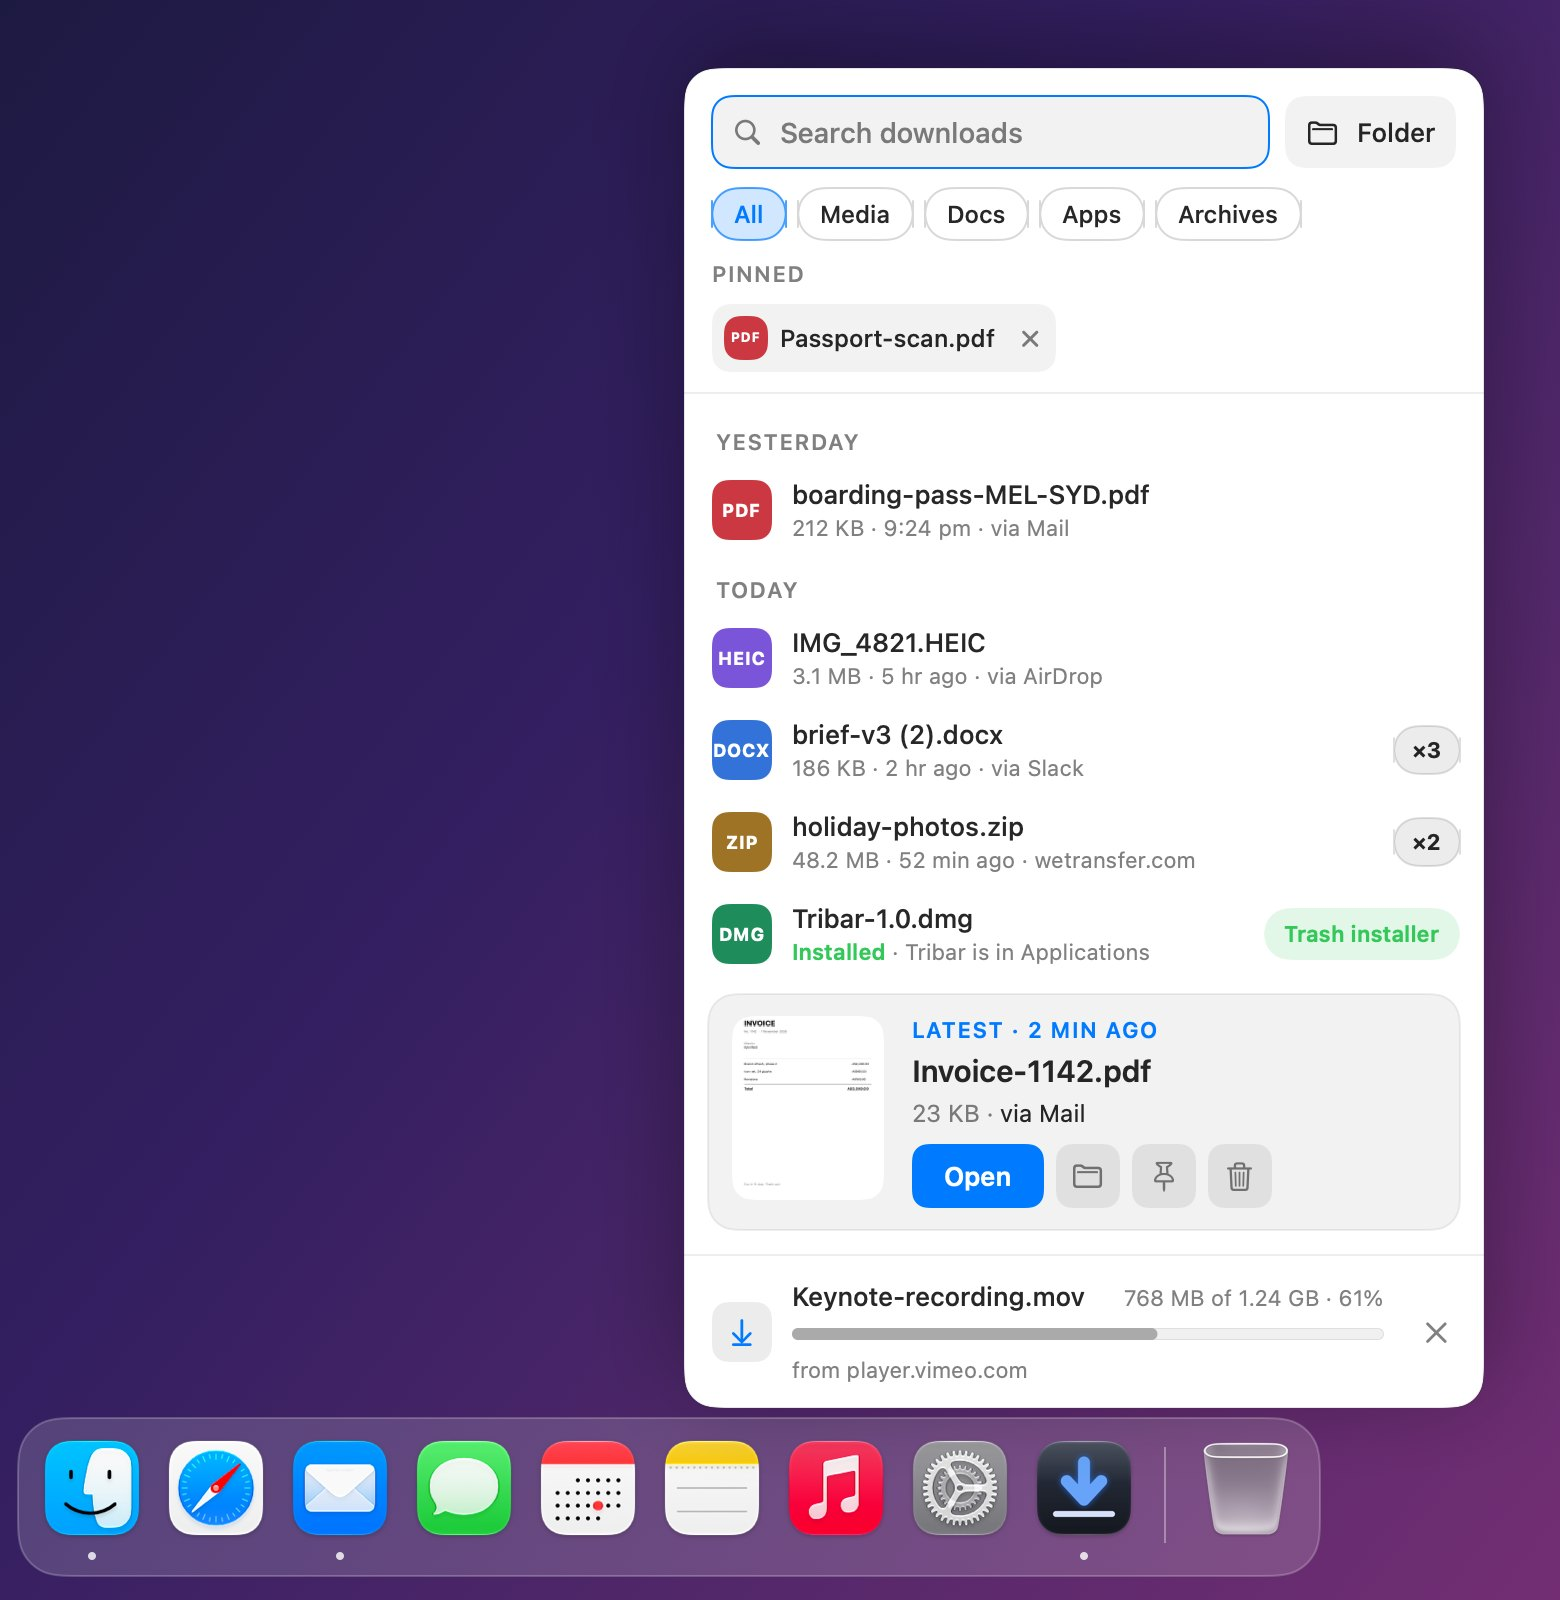
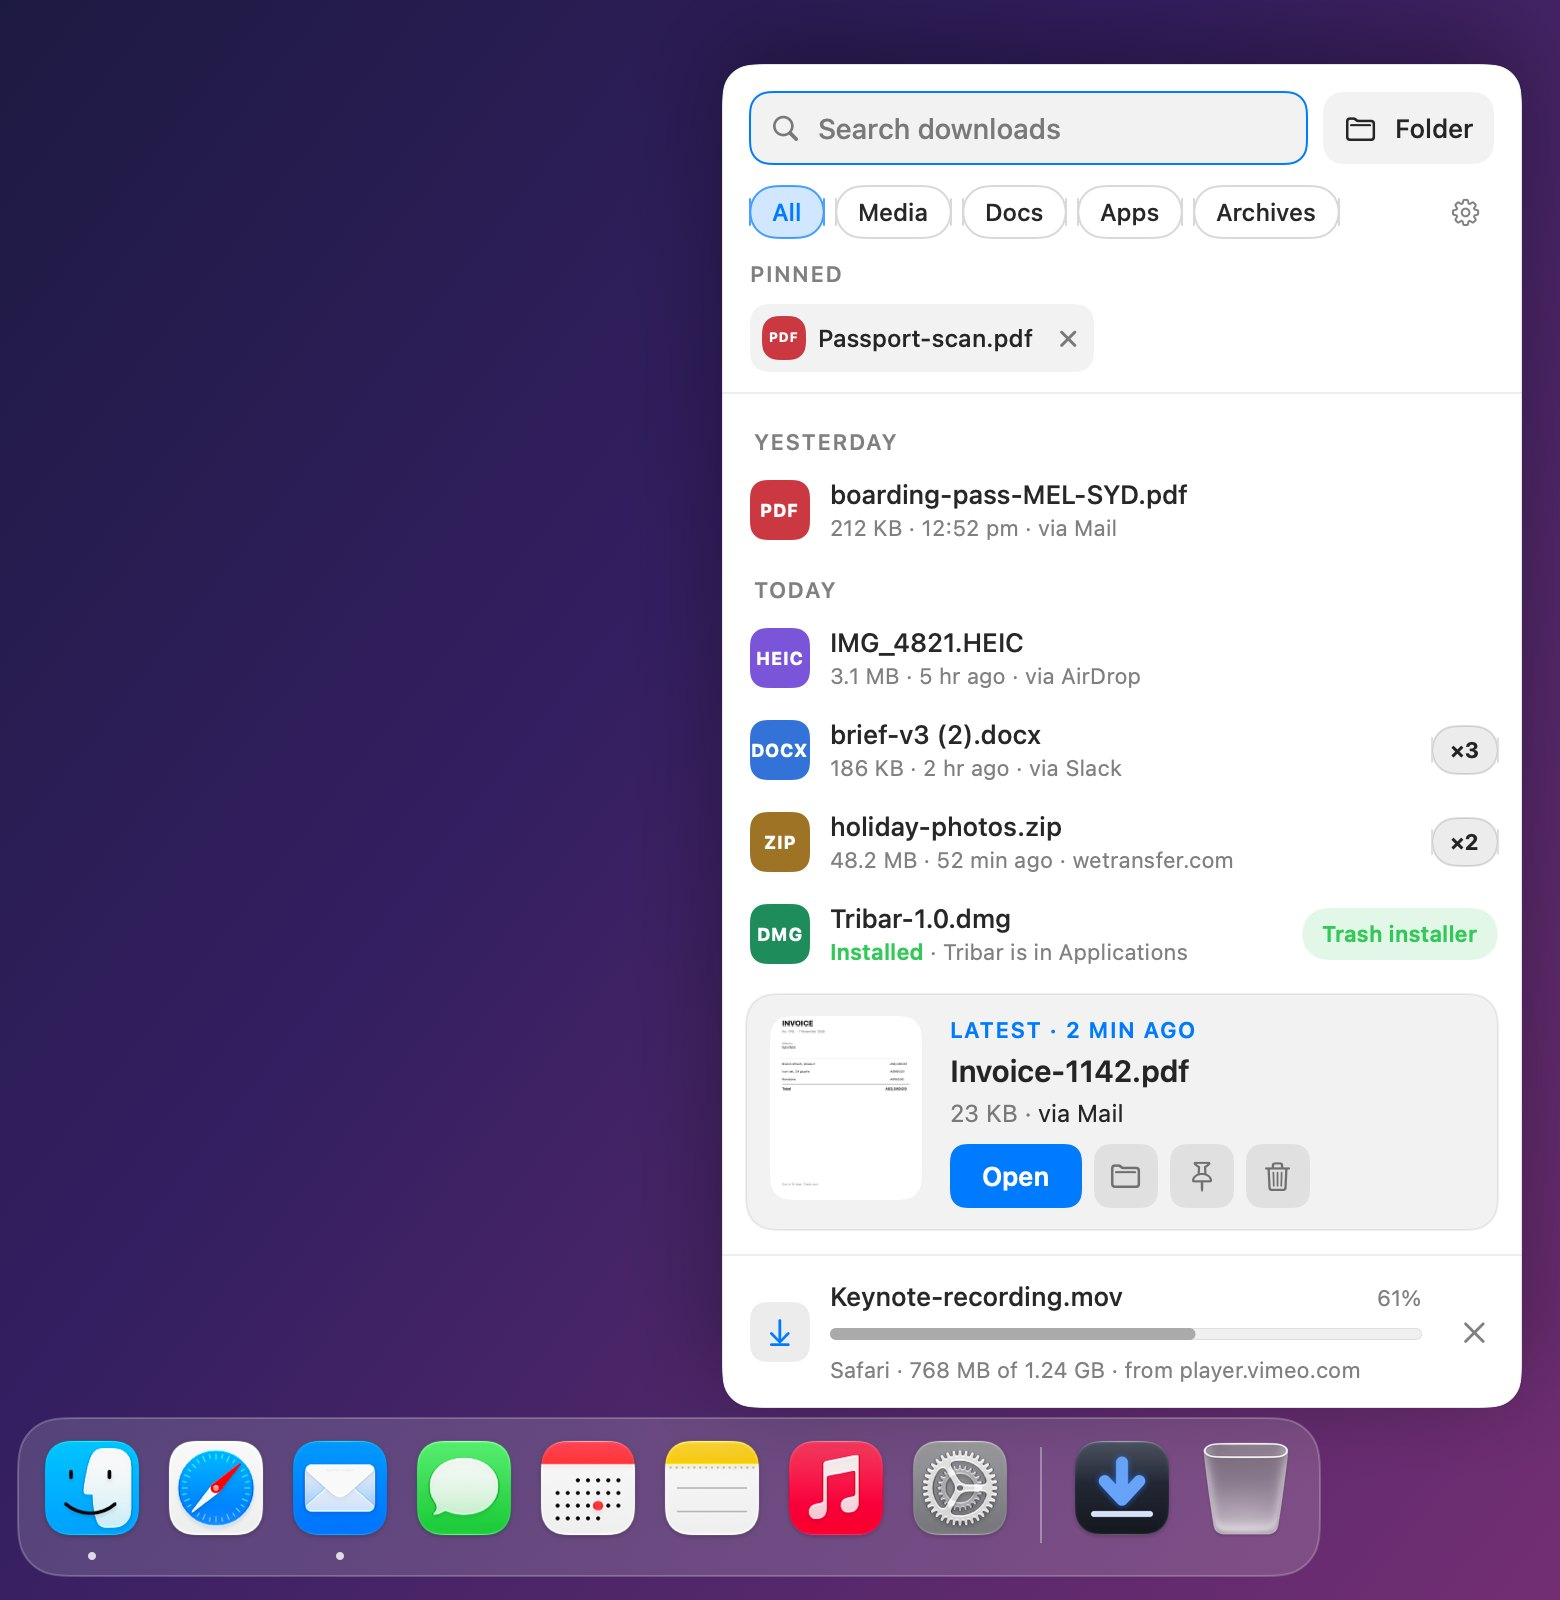
Landed: new screenshots (tile beside the Bin, current shelf), placement section, cancel and progress copy, support and privacy updates
Claude-Session: https://claude.ai/code/session_01KSvC3ngdjmg4y7t45nwftj

Changed region(s): [[0.4308, 0.0312, 0.9846, 0.9688], [0.7385, 0.8125, 0.8615, 0.875], [0.6154, 0.7812, 0.6769, 0.8125]]

diff --git a/landed/index.html b/landed/index.html
@@ -36,7 +36,7 @@
         <span class="button" aria-disabled="true"><span class="lamp on"></span> Coming to the Mac App Store</span>
         <p class="note">Free download. Pro unlock is a one-time purchase.</p>
       </div>
-      <img class="shot hero-shot" src="img/hero-dock.jpg" width="1560" height="1600" alt="The end of a Mac Dock with Landed's icon just before the Trash, and the Landed shelf open above it: a pinned file, yesterday's and today's downloads with where each came from, an invoice as the latest file, and a download in progress at 61%.">
+      <img class="shot hero-shot" src="img/hero-dock.jpg" width="1560" height="1600" alt="The end of a Mac Dock with Landed right of the divider, beside the Bin, where the Downloads stack used to be. The Landed shelf is open above it: a pinned file, yesterday's and today's downloads with where each came from, an invoice as the latest file, and a Safari download in progress at 61%.">
     </section>
 
     <dl class="specs">
@@ -74,10 +74,10 @@
 
     <section class="block" id="features">
       <h2>Everything the stack should have been.</h2>
-      <p class="sub">Click Landed in the Dock, or press your shortcut, and the shelf rises from where you clicked.</p>
+      <p class="sub">Click Landed beside the Bin, or press your shortcut, and the shelf opens right there.</p>
       <div class="features">
         <div><h3>Newest at your cursor</h3><p>The latest file gets a big card with a preview. Older ones step up from there, grouped by Today and Yesterday, so nothing needs scrolling for the file you just got.</p></div>
-        <div><h3>Downloads in progress</h3><p>Safari downloads show a live bar with size and percentage, and every browser’s partial file shows how much has arrived.</p></div>
+        <div><h3>Downloads in progress</h3><p>Live progress from Safari, Chrome, Edge and Firefox, showing what’s coming and where from. Changed your mind? Cancel it right from the shelf.</p></div>
         <div><h3>Type to find it</h3><p>Search is ready the moment the shelf opens. Filter by Media, Docs, Apps or Archives.</p></div>
         <div><h3>Keyboard first</h3><p>↑ and ↓ to move, Space for Quick Look, Return to open, ⌘⌫ to trash and ⌘Z to undo.</p></div>
         <div><h3>Pins</h3><p>Keep the files you always reach for in a strip at the top, out of the way of what’s new.</p></div>
@@ -86,10 +86,19 @@
     </section>
 
     <section class="block">
-      <h2>Prefer the menu bar? So does Landed.</h2>
-      <p class="sub">Show Landed in the Dock, the menu bar or both. Here it is in the menu bar beside <a href="../tribar/">Tribar</a>, our app that puts battery, Wi-Fi and volume in one icon.</p>
+      <h2>Right where Downloads used to be.</h2>
+      <p class="sub">Landed sits beside the Bin, in the spot the Downloads stack had. The first time you open it, it shows you the one drag that puts it there. Or keep it with your apps, in the menu bar, or any mix.</p>
       <figure class="wide">
-        <img class="shot" src="img/menubar.jpg" width="1100" height="1560" loading="lazy" alt="The right end of a Mac menu bar with only two app icons beside Spotlight and Control Center: Landed, highlighted, and Tribar’s Duo face. The Landed shelf hangs below its icon.">
+        <img class="shot" src="img/placement.jpg" width="1140" height="492" loading="lazy" alt="Landed's Settings, Show Landed in: three checkboxes, The Dock with your apps, The Dock next to the Bin, and The menu bar, each with a small picture of where Landed appears.">
+        <figcaption>Tick any mix. Landed won’t let you untick the last one.</figcaption>
+      </figure>
+    </section>
+
+    <section class="block">
+      <h2>Prefer the menu bar? So does Landed.</h2>
+      <p class="sub">Tick the menu bar in Settings, with or without the Dock. Here it is in the menu bar beside <a href="../tribar/">Tribar</a>, our app that puts battery, Wi-Fi and volume in one icon.</p>
+      <figure class="wide">
+        <img class="shot" src="img/menubar.jpg" width="1100" height="1564" loading="lazy" alt="The right end of a Mac menu bar with only two app icons beside Spotlight and Control Center: Landed, highlighted, and Tribar’s Duo face. The Landed shelf hangs below its icon.">
         <figcaption>Landed in the menu bar, next to Tribar’s Duo face.</figcaption>
       </figure>
     </section>
@@ -98,7 +107,7 @@
       <h2>Pro cleans up after you.</h2>
       <p class="sub">Free shows you what’s piling up. Pro clears it in one click, and nothing is ever deleted without you asking.</p>
       <div class="gallery pair">
-        <figure><img class="shot" src="img/duplicates.jpg" width="1040" height="1600" loading="lazy" alt="The Landed shelf with a stack of three identical copies of a document opened, and a Trash older copies button."><figcaption>Identical copies stack under the newest one.</figcaption></figure>
+        <figure><img class="shot" src="img/duplicates.jpg" width="1040" height="1604" loading="lazy" alt="The Landed shelf with a stack of three identical copies of a document opened, and a Trash older copies button."><figcaption>Identical copies stack under the newest one.</figcaption></figure>
         <figure><img class="shot" src="img/upgrade.jpg" width="1040" height="910" loading="lazy" alt="The Landed Pro card, listing what Pro would clear from this Downloads folder: 3 duplicate copies, 48.6 MB, 1 installer for an app already installed, 6.4 MB, and 3 files with a known source."><figcaption>Free shows what Pro would clear, from your own folder.</figcaption></figure>
       </div>
     </section>
@@ -110,8 +119,8 @@
         <thead><tr><th scope="col"><span class="sr-only">Feature</span></th><th scope="col">Free</th><th scope="col">Pro</th></tr></thead>
         <tbody>
           <tr><td>The shelf: newest first, search, filters, Quick Look</td><td class="yes">Yes</td><td class="yes pro">Yes</td></tr>
-          <tr><td>Dock, menu bar and keyboard shortcut</td><td class="yes">Yes</td><td class="yes pro">Yes</td></tr>
-          <tr><td>Live download progress</td><td class="yes">Yes</td><td class="yes pro">Yes</td></tr>
+          <tr><td>Beside the Bin, with your apps, in the menu bar, or by shortcut</td><td class="yes">Yes</td><td class="yes pro">Yes</td></tr>
+          <tr><td>Live download progress and cancel, in Safari, Chrome, Edge and Firefox</td><td class="yes">Yes</td><td class="yes pro">Yes</td></tr>
           <tr><td>Pins, Unzip, one-click trash with Undo</td><td class="yes">Yes</td><td class="yes pro">Yes</td></tr>
           <tr><td>Where each file came from</td><td>Newest file</td><td class="yes pro">Every file, searchable</td></tr>
           <tr><td>Identical copies, stacked</td><td>See them</td><td class="yes pro">Trash in one click</td></tr>

diff --git a/landed/support/index.html b/landed/support/index.html
@@ -30,12 +30,17 @@
 
   <details>
     <summary>How do I swap the Dock’s Downloads stack for Landed?</summary>
-    <p>Right-click the Downloads stack at the right end of your Dock and choose Options → Remove from Dock. Then drag Landed in the Dock to the end of your apps, just before the divider, so it sits where the stack used to be. Your Downloads folder itself isn’t touched.</p>
+    <p>Right-click the Downloads stack at the right end of your Dock and choose Remove from Dock. The first time Landed opens it shows a small card with a Downloads tile: drag that tile into the Dock, between the divider and the Bin. Click it once and you’re set. Your Downloads folder itself isn’t touched.</p>
+  </details>
+
+  <details>
+    <summary>I removed Landed’s tile from the Dock. How do I get it back?</summary>
+    <p>Open Landed from Applications or Spotlight and the card appears again. Or open Settings, find Show Landed in, and click Add to Dock… under The Dock, next to the Bin.</p>
   </details>
 
   <details>
     <summary>Can I use Landed from the menu bar instead?</summary>
-    <p>Yes. Open Landed’s Settings and set Show icon in to Menu bar, Dock, or both. If you hide the Dock icon, Settings is the gear at the bottom of the shelf.</p>
+    <p>Yes. In Landed’s Settings, under Show Landed in, tick The menu bar. Tick any mix of the menu bar and the two Dock spots; Landed won’t let you untick the last one. Settings is always the gear at the top right of the shelf.</p>
   </details>
 
   <details>
@@ -49,13 +54,13 @@
   </details>
 
   <details>
-    <summary>Why is there only a full progress bar for Safari?</summary>
-    <p>Safari records how big a download will be, so Landed can show a bar and percentage. For other browsers Landed shows how much has arrived so far, and asks the website for the full size when it can.</p>
+    <summary>Which browsers show live progress?</summary>
+    <p>Safari, Chrome, Edge and Firefox all show a live bar with the percentage and size. Firefox doesn’t share an estimate of time left, so its rows leave that out. Chrome and Edge don’t share a download’s name until it finishes, so those rows can say “Unnamed download” until then.</p>
   </details>
 
   <details>
     <summary>Can Landed cancel a download?</summary>
-    <p>No app can cancel another app’s download. The cancel button opens your browser’s Downloads list so you can cancel it there. macOS asks permission the first time.</p>
+    <p>Yes. Click the × on a download in progress and Landed cancels it in Safari, Chrome, Edge or Firefox, and clears away the partial file. If a browser ever doesn’t respond, Landed opens that browser’s own Downloads list instead.</p>
   </details>
 
   <details>
@@ -70,7 +75,7 @@
 
   <details>
     <summary>How do I uninstall Landed?</summary>
-    <p>If you’ve stashed any files, bring them back first from the bar at the top of the shelf. Then quit Landed and drag it from Applications to the Bin. To remove its cache too, delete ~/Library/Application Support/Landed.</p>
+    <p>If you’ve stashed any files, bring them back first from the bar at the top of the shelf. Then drag Landed’s tile out of the Dock, quit Landed, and drag it from Applications to the Bin. To remove its settings and cache too, delete ~/Library/Containers/me.dexco.Landed.</p>
   </details>
 
   <details>

diff --git a/landed/privacy/index.html b/landed/privacy/index.html
@@ -21,7 +21,7 @@
 
   <main class="doc">
   <h1>Privacy Policy</h1>
-  <p class="meta">Last updated 7 November 2026</p>
+  <p class="meta">Last updated 8 November 2026</p>
 
   <p><strong>Landed doesn’t collect, store or share any personal data.</strong> It has no accounts, no analytics, no advertising and no tracking. Everything it shows is read on your Mac, and nothing about you or your files is sent to us.</p>
 
@@ -35,13 +35,13 @@
   </ul>
 
   <h2>What Landed stores</h2>
-  <p>Everything stays on your Mac. Landed notes the date a file landed and whether it’s pinned on the file itself, and keeps a small cache of file fingerprints, mounted disk images and stashed files in its own folder at <strong>~/Library/Application Support/Landed</strong>.</p>
+  <p>Everything stays on your Mac. Landed notes the date a file landed and whether it’s pinned on the file itself, and keeps its settings and a small cache of file fingerprints, mounted disk images and stashed files in its own sandboxed folder at <strong>~/Library/Containers/me.dexco.Landed</strong>. Landed runs in Apple’s App Sandbox.</p>
 
   <h2>Network</h2>
   <p>Landed makes one kind of network request. When a download is still in progress and the browser hasn’t recorded its full size, Landed asks the website the file is coming from how big it is, so it can show a progress bar. It asks for the size only, downloads nothing, and sends no information about you. Choosing <strong>Download Again</strong> or <strong>Copy Source Link</strong> uses the file’s original web address, only when you ask.</p>
 
-  <h2>Controlling your browser</h2>
-  <p>If you click the cancel button on a download that’s in progress, Landed opens your browser’s own Downloads list so you can cancel it there. macOS asks your permission the first time. Landed does nothing else with your browser.</p>
+  <h2>Your browser</h2>
+  <p>Browsers tell macOS how far along each download is. Landed reads that to show progress, and when you click cancel it asks macOS to stop that download. If that doesn’t work, Landed opens your browser’s own Downloads list. Landed doesn’t control your browser or read anything else from it.</p>
 
   <h2>Notifications</h2>
   <p>If you stash a file, Landed posts a local notification on your Mac when it comes back. Nothing is sent to a server.</p>
